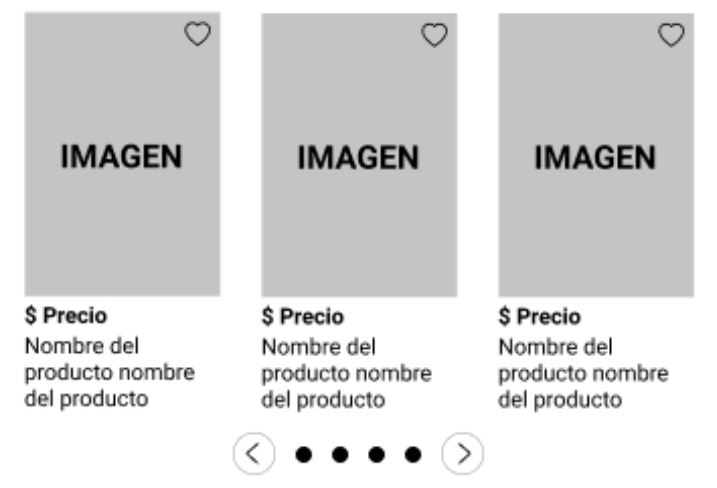
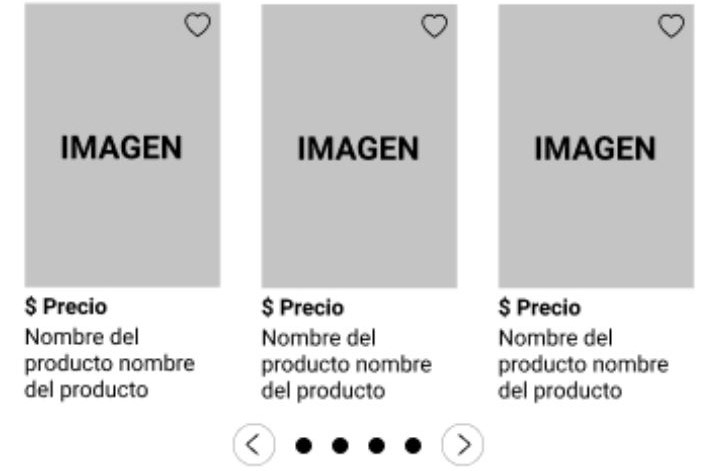
home terminado version 1, revisado en pixel 2xl iphoneX y escritorio, cassuseles simulados en HTML (no funcionales)

diff --git a/Structure/view/home.html b/Structure/view/home.html
@@ -64,18 +64,68 @@
         <div class="carrusel-grande">
             <img src="images/carrusel-react.jpg" alt="Vista ejemplo de carrusel">
         </div>
-        <div class="carrusel-pequeño">
-            <img src="images/temp-carousel-2.jpg" alt="Vista ejemplo de carrusel">
+        <h2 class="titulos-carrusel">PROMOCIONES</h2>
+        <div class="cassusel-pequeño">
+            <article class="producto-en-carrusel">
+                <img src="images/imagenenfasis.jpg" alt="foto del producto" class="producto-img-carrusel">
+                <a href="#" class="marcar-producto-favorito"><span class="material-icons-outlined">favorite_border</span></a>
+                <p class="precio-producto-carrusel">MXN $199.99</p>
+                <p class="nombre-producto-carrusel">Nombre del producto. Nombre del producto.</p>
+            </article>
+            <article class="producto-en-carrusel">
+                <img src="images/imagenenfasis.jpg" alt="foto del producto" class="producto-img-carrusel">
+                <a href="#" class="marcar-producto-favorito"><span class="material-icons-outlined">favorite_border</span></a>
+                <p class="precio-producto-carrusel">MXN $199.99</p>
+                <p class="nombre-producto-carrusel">Nombre del producto. Nombre del producto.</p>
+            </article>
+            <article class="producto-en-carrusel">
+                <img src="images/imagenenfasis.jpg" alt="foto del producto" class="producto-img-carrusel">
+                <a href="#" class="marcar-producto-favorito"><span class="material-icons-outlined">favorite_border</span></a>
+                <p class="precio-producto-carrusel">MXN $199.99</p>
+                <p class="nombre-producto-carrusel">Nombre del producto. Nombre del producto.</p>
+            </article>
         </div>
+        <article class="navegacion-carrusel">
+            <a href="#" class="array-back-carrusel"><span class="material-icons-outlined">arrow_back_ios</span></a>
+            <a href="#" class="punto-elemento-carrusel"><span class="material-icons-outlined">adjust</span></a>
+            <a href="#" class="punto-elemento-carrusel"><span class="material-icons-outlined">adjust</span></a>
+            <a href="#" class="punto-elemento-carrusel"><span class="material-icons-outlined">adjust</span></a>
+            <a href="#" class="array-forward-carrusel"><span class="material-icons-outlined">arrow_forward_ios</span></a>
+        </article>
         <div class="seccion-enfasis">
             <img src="images/item1.jpg">
             <p id="titulo-enfasis">SECCIÓN DE ÉNFASIS</p>
             <P id="descripcion-enfasis">Este es un ejemplo de una breve descripción de muestra para esta sección de énfasis. El estilo variará de acuerdo al contenido</P>
             <a href="#" class="ver-mas-button">VER MAS</a>
         </div>
-        <div class="carrusel-pequeño">
-            <img src="images/temp-carousel-2.jpg" alt="Vista ejemplo de carrusel">
+        <h2 class="titulos-carrusel">NUEVOS PRODUCTOS</h2>
+        <div class="cassusel-pequeño">
+            <article class="producto-en-carrusel">
+                <img src="images/imagenenfasis.jpg" alt="foto del producto" class="producto-img-carrusel">
+                <a href="#" class="marcar-producto-favorito"><span class="material-icons-outlined">favorite_border</span></a>
+                <p class="precio-producto-carrusel">MXN $199.99</p>
+                <p class="nombre-producto-carrusel">Nombre del producto. Nombre del producto.</p>
+            </article>
+            <article class="producto-en-carrusel">
+                <img src="images/imagenenfasis.jpg" alt="foto del producto" class="producto-img-carrusel">
+                <a href="#" class="marcar-producto-favorito"><span class="material-icons-outlined">favorite_border</span></a>
+                <p class="precio-producto-carrusel">MXN $199.99</p>
+                <p class="nombre-producto-carrusel">Nombre del producto. Nombre del producto.</p>
+            </article>
+            <article class="producto-en-carrusel">
+                <img src="images/imagenenfasis.jpg" alt="foto del producto" class="producto-img-carrusel">
+                <a href="#" class="marcar-producto-favorito"><span class="material-icons-outlined">favorite_border</span></a>
+                <p class="precio-producto-carrusel">MXN $199.99</p>
+                <p class="nombre-producto-carrusel">Nombre del producto. Nombre del producto.</p>
+            </article>
         </div>
+        <article class="navegacion-carrusel">
+            <a href="#" class="array-back-carrusel"><span class="material-icons-outlined">arrow_back_ios</span></a>
+            <a href="#" class="punto-elemento-carrusel"><span class="material-icons-outlined">adjust</span></a>
+            <a href="#" class="punto-elemento-carrusel"><span class="material-icons-outlined">adjust</span></a>
+            <a href="#" class="punto-elemento-carrusel"><span class="material-icons-outlined">adjust</span></a>
+            <a href="#" class="array-forward-carrusel"><span class="material-icons-outlined">arrow_forward_ios</span></a>
+        </article>
     </section>
 
 

diff --git a/Structure/public/CSS/stylesHome.css b/Structure/public/CSS/stylesHome.css
@@ -16,11 +16,67 @@
     height: 25vh;
 }
 
-.carrusel-pequeño img{
-    margin-top: 15px;
-    margin-bottom: 15px;
-    width: 100%;
-    height: 25vh;
+.titulos-carrusel {
+    text-align: center;
+    margin-top: 30px;
+    margin-bottom: -5px;
+}
+.cassusel-pequeño {
+    display:flex;
+    justify-content: space-between;
+    padding: 1.5vw;
+    margin-bottom: -40px;
+}
+.producto-en-carrusel img {
+    width: 30vw;
+}
+.producto-en-carrusel p {
+    max-width: 28vw;
+    position: relative;
+    bottom: 6vw;
+}
+.precio-producto-carrusel {
+    font-weight: bold;
+}
+.nombre-producto-carrusel {
+    font-size: 14px;
+}
+.producto-en-carrusel .nombre-producto-carrusel{
+    bottom: 8vw;
+}
+
+.marcar-producto-favorito {
+    position: relative;
+    bottom: 37vw;
+    left: 22vw;
+    color: #304269;
+}
+.marcar-producto-favorito .material-icons-outlined {
+    font-size: 28px;
+}
+
+.navegacion-carrusel {
+    display: flex;
+    justify-content: Center;
+    position:relative;
+    bottom: 3vw;
+}
+.navegacion-carrusel span {
+    color: black;
+}
+.array-back-carrusel {
+    margin-right: 30px;
+}
+.array-forward-carrusel {
+    margin-left: 30px;
+}
+.punto-elemento-carrusel{
+    margin: 0 5px;
+}
+.punto-elemento-carrusel .material-icons-outlined{
+    font-size: 16px;
+    position:relative;
+    top: 3px;
 }
 
 .seccion-enfasis {
